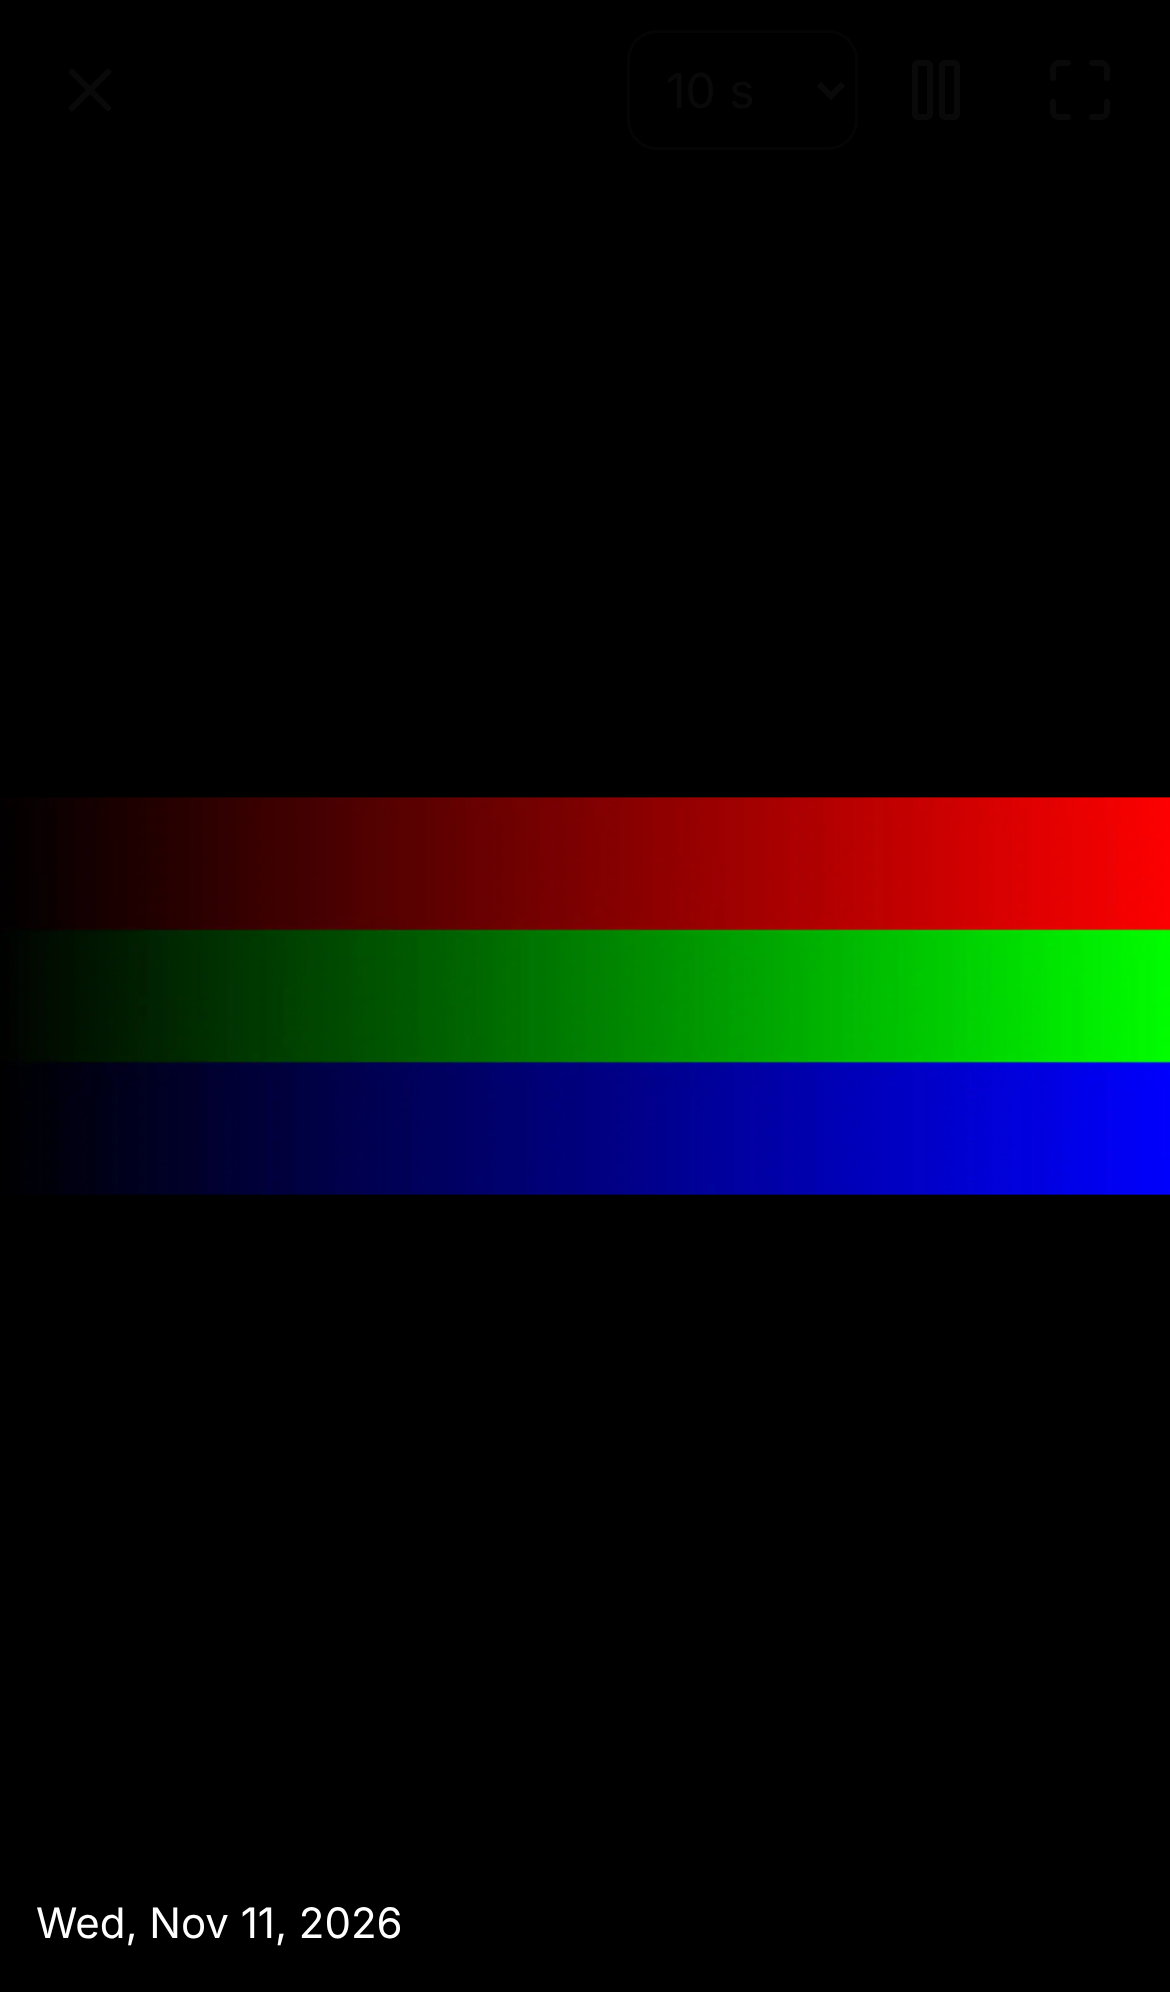
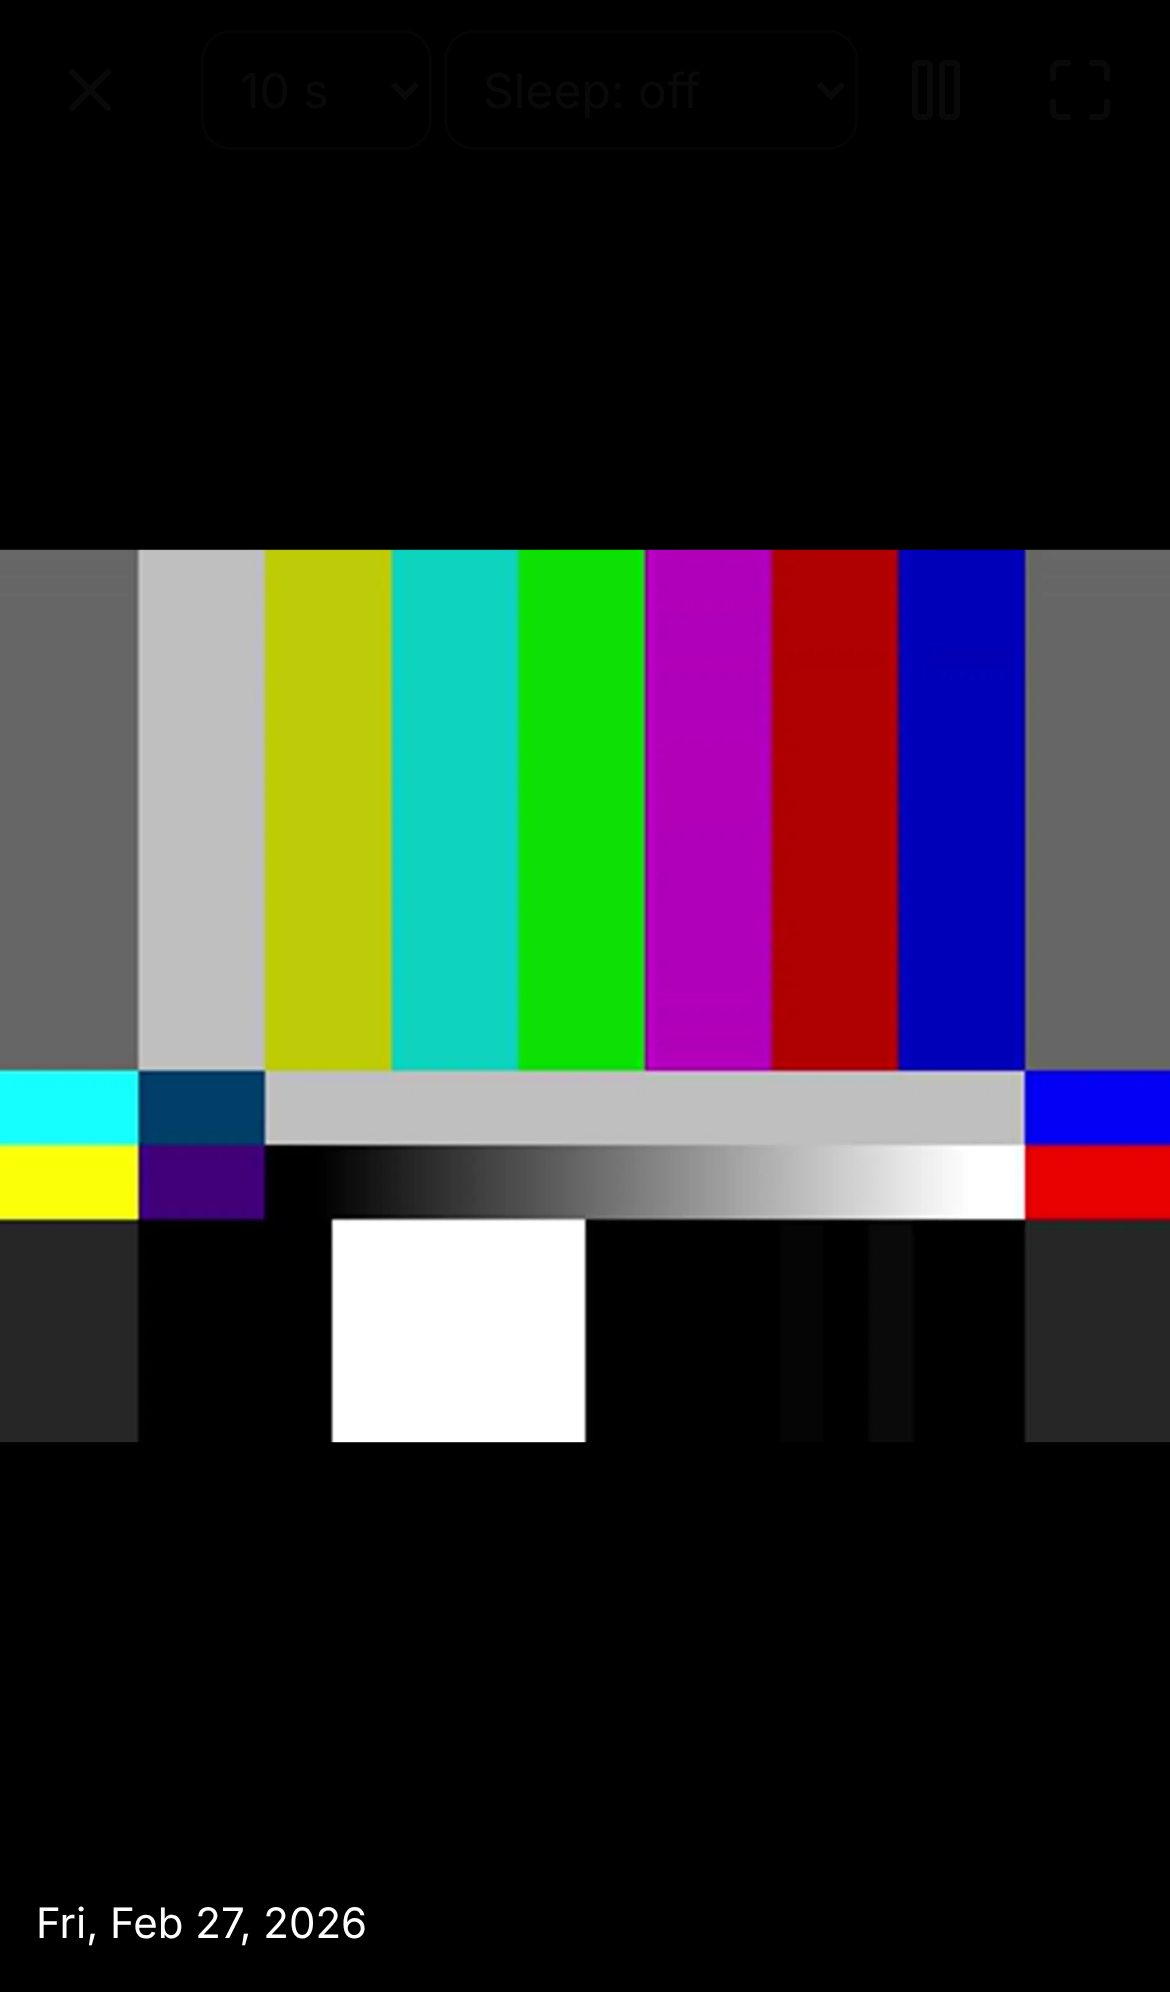
Sleep mode: start the slideshow by itself when the screen is left alone
- Slideshow bar: "Sleep: off / 30 s / 1 min / 2 min / 5 min / 15 min", kept per
  device (localStorage), so a tablet can act as a photo frame without changing phones.
- Layout: when signed in, no touch, click, key, scroll or mouse move for that long
  opens /slideshow?idle=1. Never while a video plays, the page is hidden, or a
  slideshow is already on.
- A slideshow started this way has no controls and a hidden cursor; any tap, key or
  real mouse movement (> 10 px, so a synthetic twitch doesn't count) goes back to the
  page the person was on.
- e2e: desktop (setting remembered; idle on Folders starts it; mouse move returns to
  Folders) and phone (idle on Albums starts it; a tap returns). README and landing
  page mention it.

Claude-Session: https://claude.ai/code/session_01PH99K7bqs6VscPqC2vuQfc

diff --git a/web/src/routes/slideshow/+page.svelte b/web/src/routes/slideshow/+page.svelte
@@ -1,5 +1,7 @@
 <script lang="ts">
   import { goto } from '$app/navigation';
+  import { page } from '$app/state';
+  import { SLEEP_CHOICES, sleepSeconds, setSleepSeconds } from '$lib/sleep';
   import { api, thumbURL, formatDay, type Tile } from '$lib/api';
   import { X, Play, Pause, Maximize, Minimize, Images } from '@lucide/svelte';
 
@@ -17,6 +19,10 @@
   let empty = $state(false);
   let error = $state('');
   let full = $state(false);
+  let sleep = $state(sleepSeconds());
+  // started by sleep mode: the first touch, click, key or mouse move goes back to where the person was
+  const idle = page.url.searchParams.has('idle');
+  const label = (s: number) => (s === 0 ? 'Sleep: off' : `Sleep: ${s < 60 ? s + ' s' : s / 60 + ' min'}`);
   const canFull = typeof document !== 'undefined' && !!document.fullscreenEnabled;
 
   let queue: Tile[] = [];
@@ -66,10 +72,25 @@
     schedule();
   }
 
-  function wake() {
+  let origin: { x: number; y: number } | null = null;
+  function wake(e?: PointerEvent) {
+    if (idle) {
+      // a resting mouse can get a synthetic move when the page changes under it: only a real movement wakes
+      if (e?.type === 'pointermove') {
+        if (!origin) origin = { x: e.clientX, y: e.clientY };
+        if (Math.hypot(e.clientX - origin.x, e.clientY - origin.y) < 10) return;
+      }
+      if (e) leave();
+      return;
+    }
     controls = true;
     clearTimeout(hideTimer);
     hideTimer = setTimeout(() => (controls = false), 3000);
+  }
+
+  function leave() {
+    if (history.length > 1) history.back();
+    else goto('/');
   }
 
   function exit() {
@@ -85,6 +106,7 @@
   }
 
   function onkey(e: KeyboardEvent) {
+    if (idle) return leave();
     wake();
     if (e.key === 'Escape' && !document.fullscreenElement) exit();
     else if (e.key === ' ' && !(e.target as HTMLElement).closest('button, select')) { e.preventDefault(); togglePause(); }
@@ -104,7 +126,7 @@
     const onfs = () => (full = !!document.fullscreenElement);
     document.addEventListener('fullscreenchange', onfs);
     show();
-    wake();
+    if (!idle) wake();
     return () => { clearTimeout(timer); clearTimeout(hideTimer); document.removeEventListener('fullscreenchange', onfs); };
   });
 </script>
@@ -112,7 +134,7 @@
 <svelte:head><title>Slideshow · Picburrow</title></svelte:head>
 <svelte:window onkeydown={onkey} />
 
-<div class="show" class:idle={!controls} role="region" aria-label="Slideshow" onpointermove={wake} onpointerdown={wake}
+<div class="show" class:idle={!controls || idle} role="region" aria-label="Slideshow" onpointermove={wake} onpointerdown={wake}
   style:--drift="{seconds + FADE / 1000}s">
   {#each slides as s (s.key)}
     <div class="slide" class:out={s.out}><img src={s.src} alt="{formatDay(s.tile.taken)}" draggable="false" /></div>
@@ -125,12 +147,17 @@
     <div class="msg"><p role="alert">{error}</p><button class="btn secondary" onclick={exit}>Back to Photos</button></div>
   {/if}
 
-  <div class="bar" class:hidden={!controls}>
+  <div class="bar" class:hidden={!controls || idle}>
     <button class="btn icon-btn" onclick={exit} aria-label="Stop slideshow"><X aria-hidden="true" /></button>
     <span class="spacer"></span>
     <label class="every"><span class="sr-only">Change photo every</span>
       <select value={seconds} onchange={(e) => setSeconds(Number(e.currentTarget.value))}>
         {#each CHOICES as c}<option value={c}>{c < 60 ? `${c} s` : '1 min'}</option>{/each}
+      </select>
+    </label>
+    <label><span class="sr-only">Start the slideshow by itself when the screen is left alone</span>
+      <select value={sleep} onchange={(e) => setSleepSeconds((sleep = Number(e.currentTarget.value)))}>
+        {#each SLEEP_CHOICES as c}<option value={c}>{label(c)}</option>{/each}
       </select>
     </label>
     <button class="btn icon-btn" onclick={togglePause} aria-label={paused ? 'Play' : 'Pause'}>
@@ -142,12 +169,13 @@
       </button>
     {/if}
   </div>
-  {#if controls && slides.length}<p class="date" aria-hidden="true">{formatDay(slides.at(-1)!.tile.taken)}</p>{/if}
+  {#if controls && !idle && slides.length}<p class="date" aria-hidden="true">{formatDay(slides.at(-1)!.tile.taken)}</p>{/if}
 </div>
 
 <style>
   .show { position: fixed; inset: 0; z-index: 100; background: #000; color: #fff; overflow: hidden; }
   .show.idle { cursor: none; }
+  .bar label { display: contents; }
   .slide { position: absolute; inset: 0; animation: fade-in 1.5s ease forwards; }
   .slide.out { animation: fade-out 1.5s ease forwards; }
   .slide img { width: 100%; height: 100%; object-fit: contain; animation: drift var(--drift) linear forwards; }

diff --git a/e2e/f11-slideshow.spec.ts b/e2e/f11-slideshow.spec.ts
@@ -49,3 +49,32 @@ test('SS-2 on a phone: tap shows the controls, the X stops it @mobile', async ({
   await stop.tap();
   await expect(page).toHaveURL(/\/$/);
 });
+
+test('SL-1 sleep mode: idle for the chosen time starts the slideshow; moving the mouse returns', async ({ page }) => {
+  test.skip(page.viewportSize()!.width < 768, 'desktop');
+  await page.goto('/slideshow');
+  await expect(current(page)).toBeVisible();
+  await page.getByLabel('Start the slideshow by itself when the screen is left alone').selectOption({ label: 'Sleep: 30 s' });
+  expect(await page.evaluate(() => localStorage.getItem('picburrow.sleep.seconds'))).toBe('30');
+  await page.getByRole('button', { name: 'Stop slideshow' }).click();
+  await page.evaluate(() => localStorage.setItem('picburrow.sleep.seconds', '2')); // shorter than any choice, to keep the test fast
+  await page.goto('/folders');
+  await expect(page.getByRole('heading', { level: 1, name: 'Folders' })).toBeVisible();
+  await expect(page).toHaveURL(/\/slideshow\?idle=1$/, { timeout: 8000 });
+  await expect(current(page)).toBeVisible();
+  await expect(page.locator('.bar')).toHaveClass(/hidden/); // a photo frame: no controls
+  await page.mouse.move(300, 300);
+  await page.mouse.move(360, 340); // a real movement, not a twitch
+  await expect(page).toHaveURL(/\/folders$/);
+  await expect(page.getByRole('heading', { level: 1, name: 'Folders' })).toBeVisible();
+});
+
+test('SL-2 sleep mode on a phone: a tap wakes it back to the page @mobile', async ({ page }) => {
+  test.skip(page.viewportSize()!.width >= 768, 'phone layout');
+  await page.goto('/albums');
+  await page.evaluate(() => localStorage.setItem('picburrow.sleep.seconds', '2'));
+  await expect(page).toHaveURL(/\/slideshow\?idle=1$/, { timeout: 8000 });
+  await expect(current(page)).toBeVisible();
+  await page.touchscreen.tap(200, 400);
+  await expect(page).toHaveURL(/\/albums$/);
+});

diff --git a/web/src/routes/+layout.svelte b/web/src/routes/+layout.svelte
@@ -9,6 +9,7 @@
   import { selection, toast } from '$lib/state.svelte';
   import { api, type User } from '$lib/api';
   import { SOURCE_URL } from '$lib/source';
+  import { sleepSeconds } from '$lib/sleep';
   import { Image, Folder, BookImage, Heart, Archive, Search, Trash2, HardDrive, Activity, LogOut, Users, Menu } from '@lucide/svelte';
 
   let { children } = $props();
@@ -49,6 +50,22 @@
     { href: '/admin/users', label: 'People', icon: Users }
   ];
   const current = (href: string) => (href === '/' ? page.url.pathname === '/' || page.url.pathname.startsWith('/photos/') : page.url.pathname.startsWith(href));
+
+  // sleep mode: after the chosen time without input, the slideshow starts by itself (like a tablet's photo frame)
+  $effect(() => {
+    if (!user || publicRoute) return;
+    let last = Date.now();
+    const active = () => (last = Date.now());
+    const events = ['pointerdown', 'pointermove', 'keydown', 'wheel', 'touchstart', 'scroll'] as const;
+    for (const e of events) window.addEventListener(e, active, { capture: true, passive: true });
+    const tick = setInterval(() => {
+      const n = sleepSeconds();
+      const watching = [...document.querySelectorAll('video')].some((v) => !v.paused && !v.ended);
+      if (page.url.pathname === '/slideshow' || watching || document.visibilityState !== 'visible') return active();
+      if (n > 0 && Date.now() - last >= n * 1000) { active(); goto('/slideshow?idle=1'); }
+    }, 1000);
+    return () => { clearInterval(tick); for (const e of events) window.removeEventListener(e, active, { capture: true }); };
+  });
 
   async function logout() {
     await api('/api/logout', { method: 'POST', body: {} });

diff --git a/web/src/lib/sleep.ts b/web/src/lib/sleep.ts
@@ -1,0 +1,12 @@
+// Sleep mode: start the slideshow by itself after this many seconds without a touch, click or key (0 = off).
+// Kept per device (a tablet used as a photo frame wants it, a phone usually doesn't).
+const KEY = 'picburrow.sleep.seconds';
+export const SLEEP_CHOICES = [0, 30, 60, 120, 300, 900];
+
+export function sleepSeconds(): number {
+  try { return Math.max(0, Number(localStorage.getItem(KEY)) || 0); } catch { return 0; }
+}
+
+export function setSleepSeconds(s: number) {
+  try { localStorage.setItem(KEY, String(s)); } catch {}
+}

diff --git a/README.md b/README.md
@@ -4,7 +4,7 @@ The photo folders you already have, as a timeline on your phone. Picburrow is on
 a timeline by day, a fast fullscreen viewer, and photo details. It runs on a Pi 3, 4 or 5 with **1 GB RAM**
 and 64-bit Raspberry Pi OS, and only reads your photo folders, never changes them.
 
-Status: timeline with date scrubber, viewer, live photos, random slideshow, star ratings, folders, favourites, archive, trash, albums, multi-select, search, share links, family accounts, library settings; installable on a phone's home screen. Feature parity 87/100 (`replica/parity.md`). See `replica/build-log.md` and `replica/features.csv`.
+Status: timeline with date scrubber, viewer, live photos, random slideshow with a sleep mode (starts by itself when the screen is left alone), star ratings, folders, favourites, archive, trash, albums, multi-select, search, share links, family accounts, library settings; installable on a phone's home screen. Feature parity 87/100 (`replica/parity.md`). See `replica/build-log.md` and `replica/features.csv`.
 
 To hear about new versions: **Watch → Custom → Releases** on GitHub. The project page is `docs/index.html`.
 
